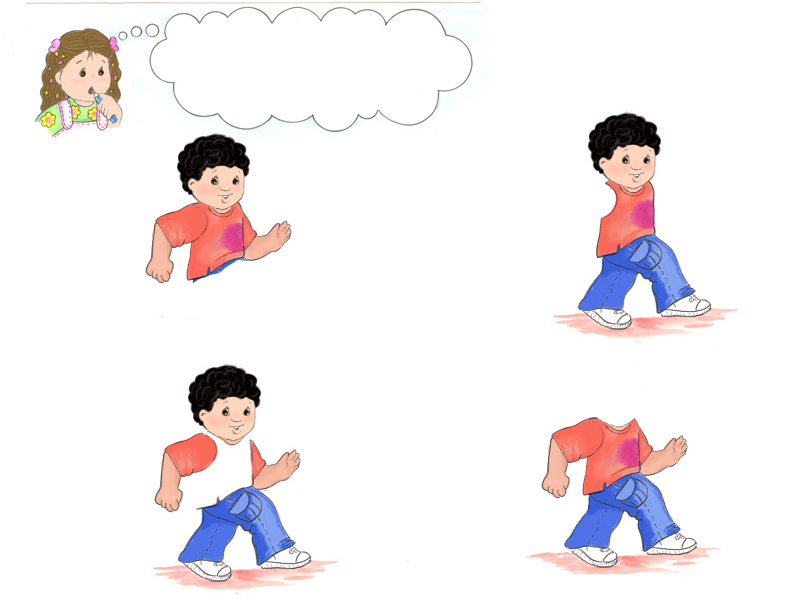
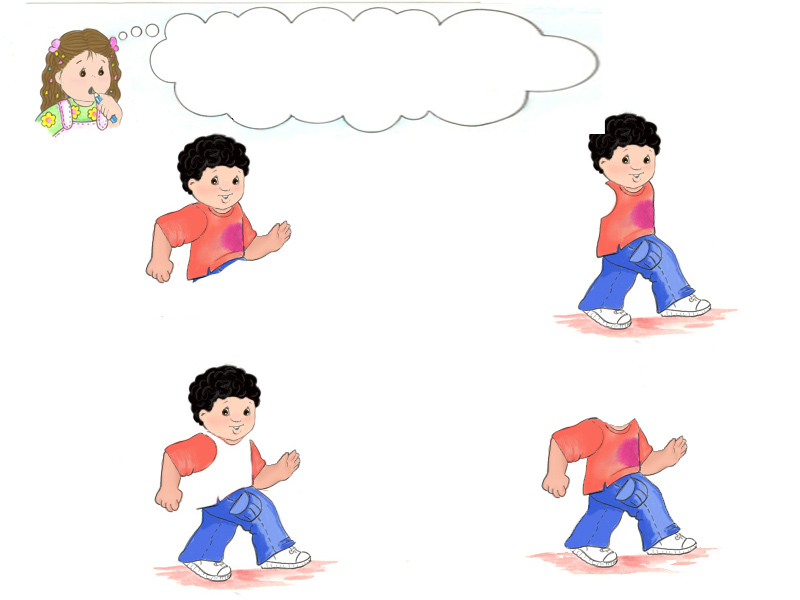
Reparados problemas en el menú y en actividad 1
* Se ajusta el rect del puntero
 * Se eliminan parámetros innecesarios en la clase Menu
 * Se ajusta el fondo de la actividad 1 para que el texto informativo no
   se salga de la nuve

diff --git a/src/missing.py b/src/missing.py
@@ -94,14 +94,14 @@ class Missing(Activity):
         instructions = [u"A Kiko le desaparecieron algunas partes de su" \
                 , u"cuerpo ¿Puedes unirlas arrastrando las partes?"]
         text = font_title.render(title, True, (102, 102, 102))
-        text_pos = (185, 35)
+        text_pos = (183, 35)
         self.screen.blit(text, text_pos)
         y = 45
         line_width, line_height = font_instructions.size(instructions[0])
         for line in instructions:
             text = font_instructions.render(line, True, (102, 102, 102))
             y += line_height
-            text_pos = (188, y)
+            text_pos = (184, y)
             self.screen.blit(text, text_pos)
 
     def setup(self):

diff --git a/src/activity.py b/src/activity.py
@@ -62,7 +62,9 @@ class Activity:
 
             if self.finished_:
                 self.finished()
-            
+            else:  
+            #    self.handle_events()
+                pass
             self.handle_events()
 
             if self.quit:
@@ -86,7 +88,7 @@ class Activity:
         font = pygame.font.SysFont("dejavusans", 64)
         size = font.size(self.finished_text) 
         pos = self.center[0] - size[0] / 2.0, self.center[1] - size[1] / 2.0
-        text = font.render(self.finished_text, True, (102, 102, 102))
+        text = font.render(self.finished_text, True, (102, 10, 12))
         rect = self.screen.blit(text, pos)
         pygame.display.update(rect)
 

diff --git a/src/salud.py b/src/salud.py
@@ -62,7 +62,7 @@ def main():
         MenuItem('environment', SoupActivity2, 'soups'), # Act 14
         # TODO Act 15
         # TODO Act 16
-        MenuItem('room', Room, 'select'), # Act 17
+        #MenuItem('room', Room, 'select'), # Act 17
         # TODO Act 18
         # TODO Act 19
         # TODO Act 20
